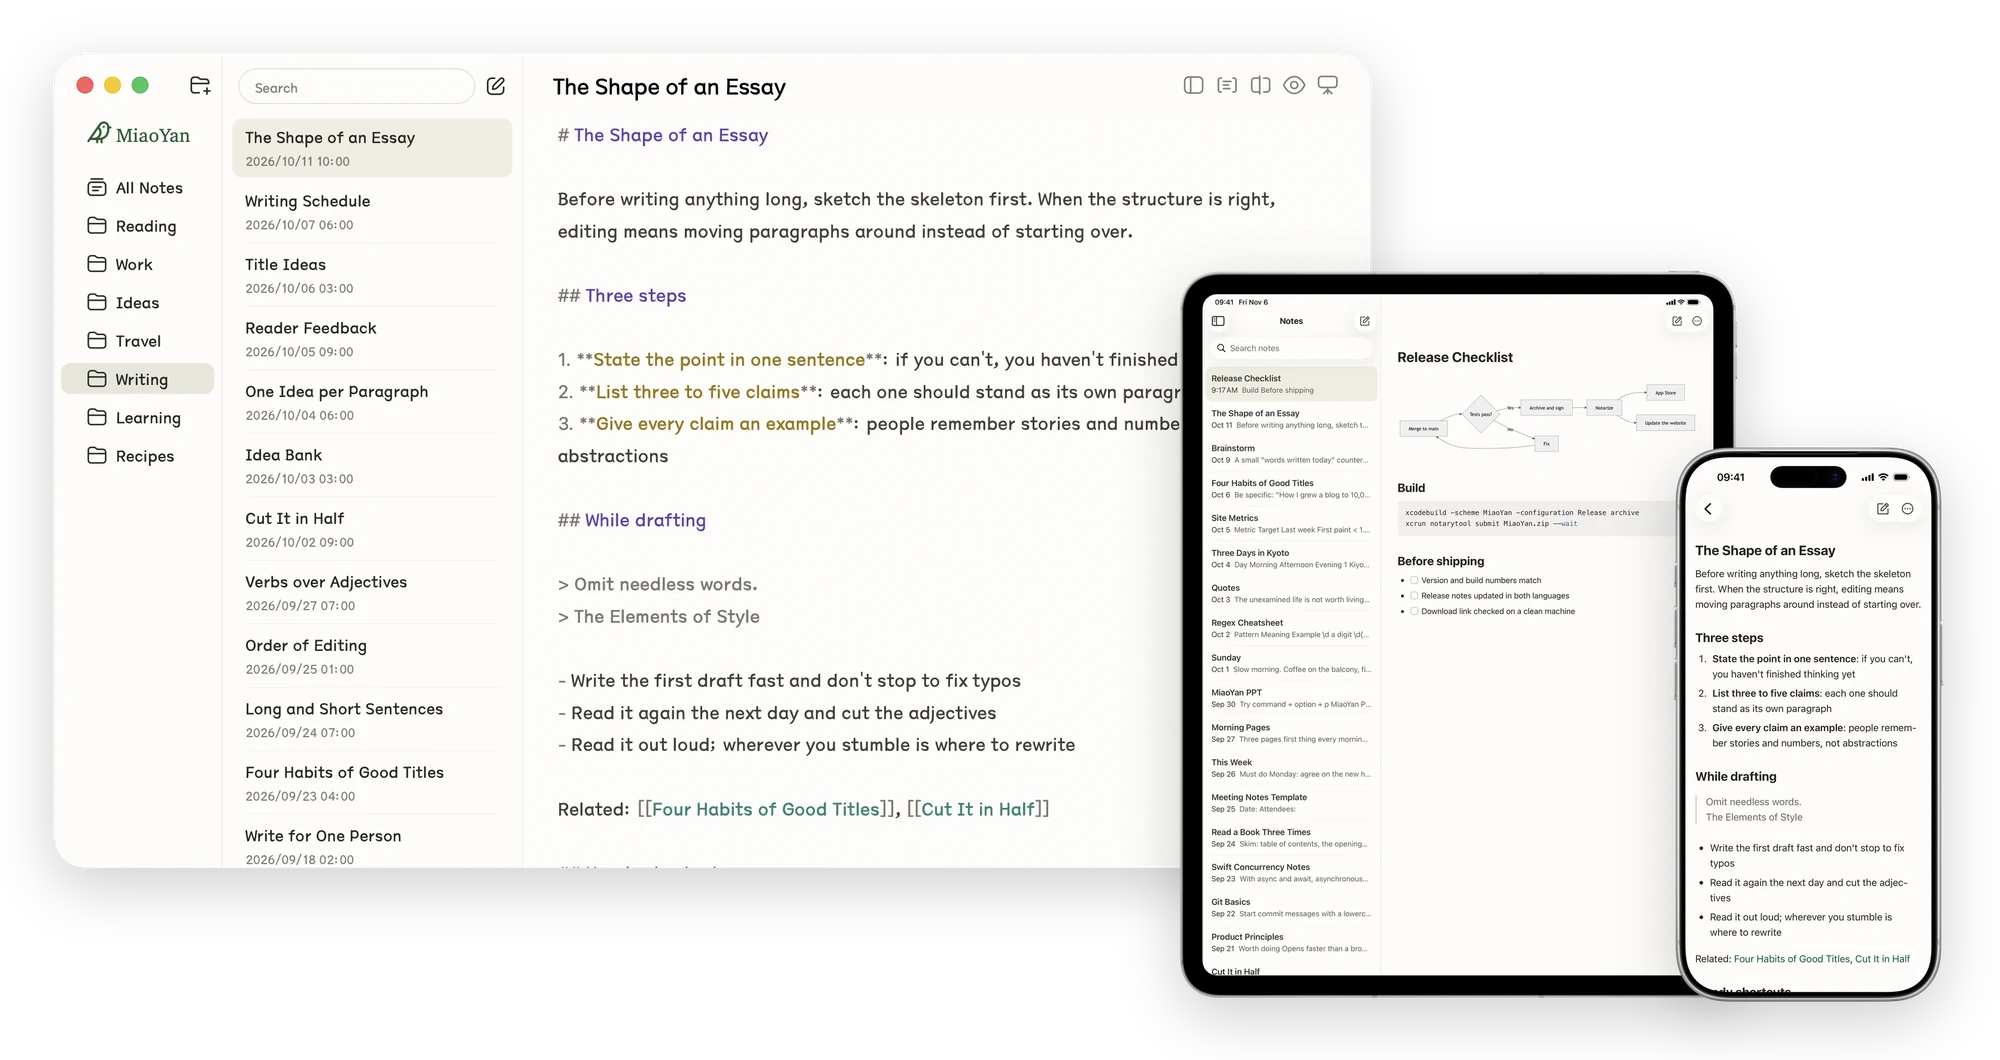
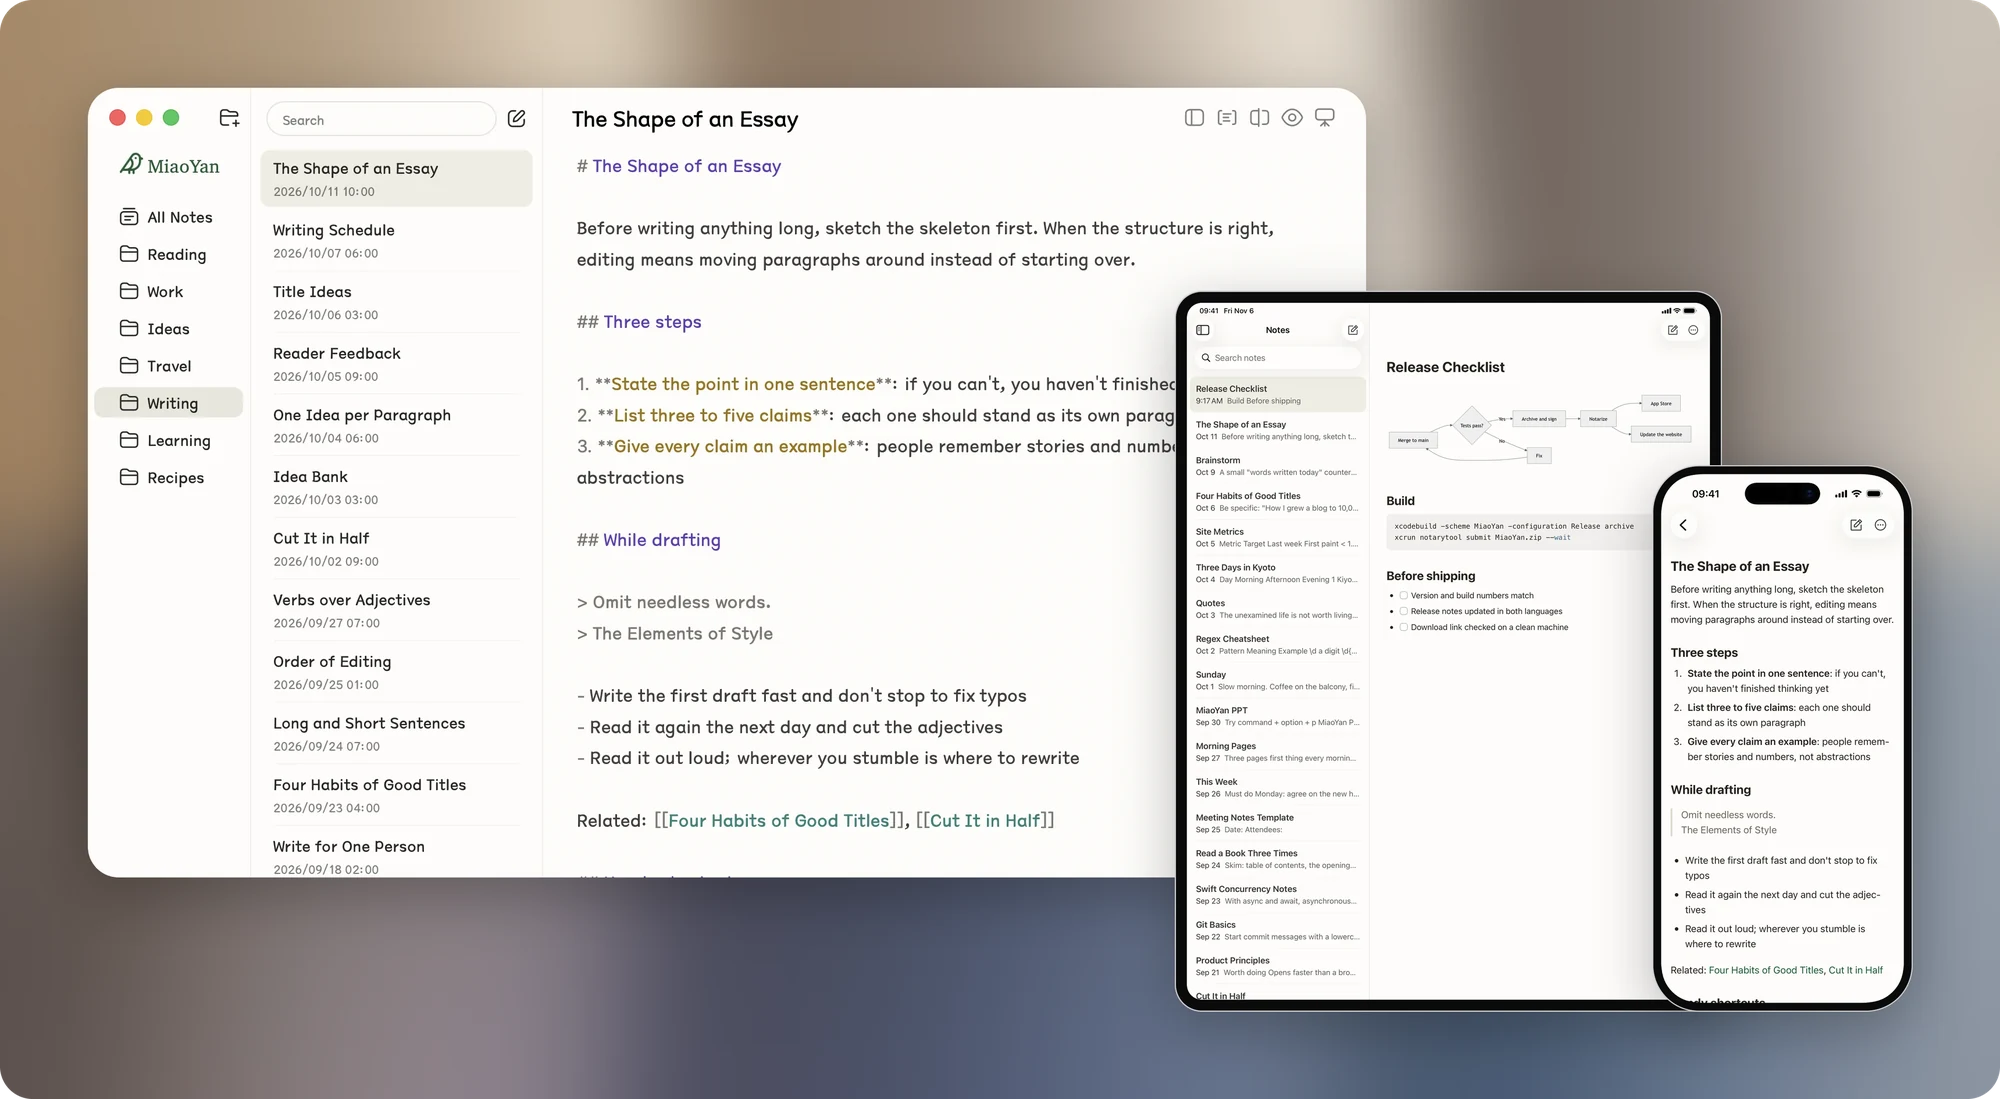
assets: README composite with thinner device bezels on a wallpaper ground
The maintainer found the iPad bezel thick and the all-white picture flat, and picked option C of three (dark Mac, preview Mac, wallpaper ground). The iPad and iPhone screens are cut from their frames and given 26px and 20px bezels (from about 53 and 25) with a 3px aluminium edge, and the picture sits on a ground blurred from the Mac shot's wallpaper bands, with rounded corners.

diff --git a/scripts/build-readme-shot.py b/scripts/build-readme-shot.py
@@ -1,12 +1,15 @@
 """Build the README hero image: the Mac window beside the iPad and iPhone.
 
 Reads assets/shots/{lang}-edit-2400.webp, {lang}-ipad.webp and
-{lang}-iphone.webp, cuts the Mac window out of its wallpaper (window at
-100,100 to 2300,1460, corner radius 53), stands the iPad and iPhone over its
-right edge on a transparent ground so the picture reads on GitHub's light and
-dark themes, and writes assets/shots/readme-{lang}.webp at 2000px wide.
-The open-source repository's READMEs load these from miaoyan.app; rerun after
-the site shots are retaken.
+{lang}-iphone.webp and writes assets/shots/readme-{lang}.webp at 2000px wide.
+The Mac window is cut out of its wallpaper (100,100 to 2300,1460, corner
+radius 53). The iPad and iPhone screens are cut out of their device frames and
+given thinner bezels (26px and 20px, down from about 53 and 25, with a 3px
+aluminium edge), since the iPad's original bezel read thick beside the Mac.
+All three sit on a soft ground blurred from the wallpaper bands above and
+below the Mac window, with rounded corners (maintainer's pick of three,
+2026-11-06). The open-source repository's READMEs load these from
+miaoyan.app; rerun after the site shots are retaken.
 
     python3 -I scripts/build-readme-shot.py
 """
@@ -18,32 +21,59 @@ from PIL import Image, ImageDraw, ImageFilter
 SHOTS = Path(__file__).resolve().parent.parent / "assets" / "shots"
 
 
+def rounded_mask(size, radius, inset=0, ss=4):
+    mask = Image.new("L", (size[0] * ss, size[1] * ss), 0)
+    ImageDraw.Draw(mask).rounded_rectangle(
+        (inset * ss, inset * ss, size[0] * ss - 1 - inset * ss, size[1] * ss - 1 - inset * ss),
+        radius=radius * ss,
+        fill=255,
+    )
+    return mask.resize(size, Image.LANCZOS)
+
+
+def rebezel(path, screen_box, screen_radius, bezel, edge=3):
+    screen = Image.open(path).convert("RGBA").crop(screen_box)
+    screen.putalpha(rounded_mask(screen.size, screen_radius))
+    size = (screen.width + 2 * (bezel + edge), screen.height + 2 * (bezel + edge))
+    device = Image.new("RGBA", size, (200, 201, 204, 255))
+    device.putalpha(rounded_mask(size, screen_radius + bezel + edge))
+    body_size = (size[0] - 2 * edge, size[1] - 2 * edge)
+    body = Image.new("RGBA", body_size, (10, 10, 11, 255))
+    body.putalpha(rounded_mask(body_size, screen_radius + bezel))
+    device.alpha_composite(body, (edge, edge))
+    device.alpha_composite(screen, (bezel + edge, bezel + edge))
+    return device
+
+
 def scaled(im, h):
     return im.resize((round(im.width * h / im.height), h), Image.LANCZOS)
 
 
 def build(lang):
     mac = Image.open(SHOTS / f"{lang}-edit-2400.webp").convert("RGBA")
-    ipad = scaled(Image.open(SHOTS / f"{lang}-ipad.webp").convert("RGBA"), 1240)
-    iphone = scaled(Image.open(SHOTS / f"{lang}-iphone.webp").convert("RGBA"), 940)
+    ipad = scaled(rebezel(SHOTS / f"{lang}-ipad.webp", (72, 76, 1328, 1750), 36, 26), 1240)
+    iphone = scaled(rebezel(SHOTS / f"{lang}-iphone.webp", (38, 36, 662, 1395), 97, 20), 940)
 
-    left, top, right, bottom, radius, ss = 100, 100, 2300, 1460, 53, 4
-    win = mac.crop((left, top, right, bottom))
-    mask = Image.new("L", (win.width * ss, win.height * ss), 0)
-    ImageDraw.Draw(mask).rounded_rectangle(
-        (ss, ss, win.width * ss - 1 - ss, win.height * ss - 1 - ss), radius=radius * ss, fill=255
-    )
-    win.putalpha(mask.resize(win.size, Image.LANCZOS))
+    win = mac.crop((100, 100, 2300, 1460))
+    win.putalpha(rounded_mask(win.size, 53, inset=1))
 
-    pad = 90
+    pad = 150
     width = pad + win.width - 330 + ipad.width - 120 + iphone.width + pad
     height = pad + win.height + 230 + pad
-    canvas = Image.new("RGBA", (width, height), (0, 0, 0, 0))
+
+    # Only the wallpaper bands above and below the window, so its white never
+    # bleeds into the ground.
+    rgb = mac.convert("RGB")
+    bands = Image.new("RGB", (rgb.width, 160))
+    bands.paste(rgb.crop((0, 0, rgb.width, 80)), (0, 0))
+    bands.paste(rgb.crop((0, rgb.height - 80, rgb.width, rgb.height)), (0, 80))
+    canvas = bands.resize((width, height), Image.BICUBIC).filter(ImageFilter.GaussianBlur(90)).convert("RGBA")
+    canvas.putalpha(rounded_mask((width, height), 56))
 
     def shadow(im, xy):
         layer = Image.new("RGBA", canvas.size, (0, 0, 0, 0))
         tint = Image.new("RGBA", im.size, (20, 18, 15, 0))
-        tint.putalpha(im.getchannel("A").point(lambda v: int(v * 0.20)))
+        tint.putalpha(im.getchannel("A").point(lambda v: int(v * 0.28)))
         layer.alpha_composite(tint, (xy[0], xy[1] + 28))
         return layer.filter(ImageFilter.GaussianBlur(46))
 
